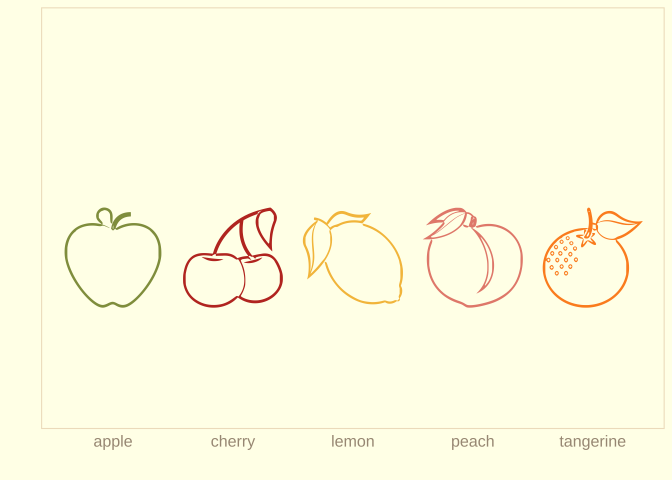
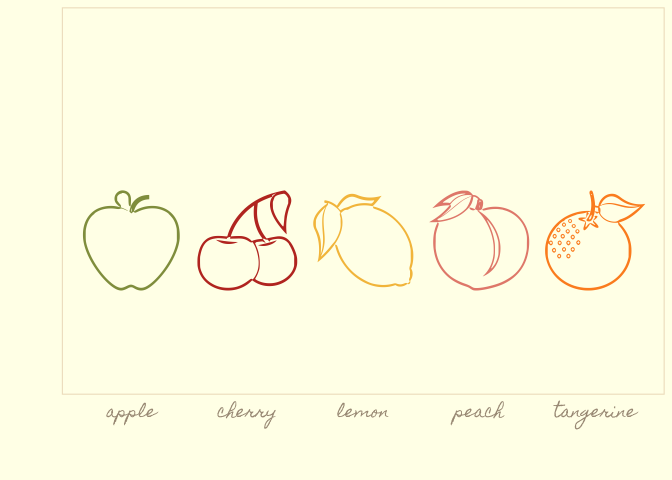
updating day 2 figures

diff --git a/group 1- comparisons/day-2-pictogram.md b/group 1- comparisons/day-2-pictogram.md
@@ -1,28 +1,18 @@
----
-title: "Day 2: Pictogram"
-output: github_document
----
+Day 2: Pictogram
+================
 
-```{r setup, include=FALSE}
-knitr::opts_chunk$set(echo = TRUE)
-```
+I had a difficult time figuring out how to add icons/emojis to my
+charts, so once I was able to figure it out, I was happy with that. It’s
+nothing fancy, but I am proud of it!
 
-
-I had a difficult time figuring out how to add icons/emojis to my charts, so once I was able to figure it out, I was happy with that. It's nothing fancy, but I am proud of it! 
-
-```{r libraries, message=FALSE}
+``` r
 library(tidyverse)
 library(showtext)
 library(ggpomological)
 library(emojifont)
 ```
 
-
-```{r, include=FALSE}
-scales::show_col(ggpomological:::pomological_palette)
-```
-
-```{r, message=FALSE, warning=FALSE}
+``` r
 fruit <- c("tangerine", "apple", "peach", "cherry", "lemon")
 label <- c(emoji('tangerine'), emoji('apple'), emoji('peach'), emoji('cherries'), emoji('lemon'))
 
@@ -40,3 +30,4 @@ ggplot(df, aes(x=fruit, y=row))+
   ggsave("day-2-pictogram_files/fruit.png")
 ```
 
+![](day-2-pictogram_files/figure-gfm/unnamed-chunk-2-1.png)<!-- -->
